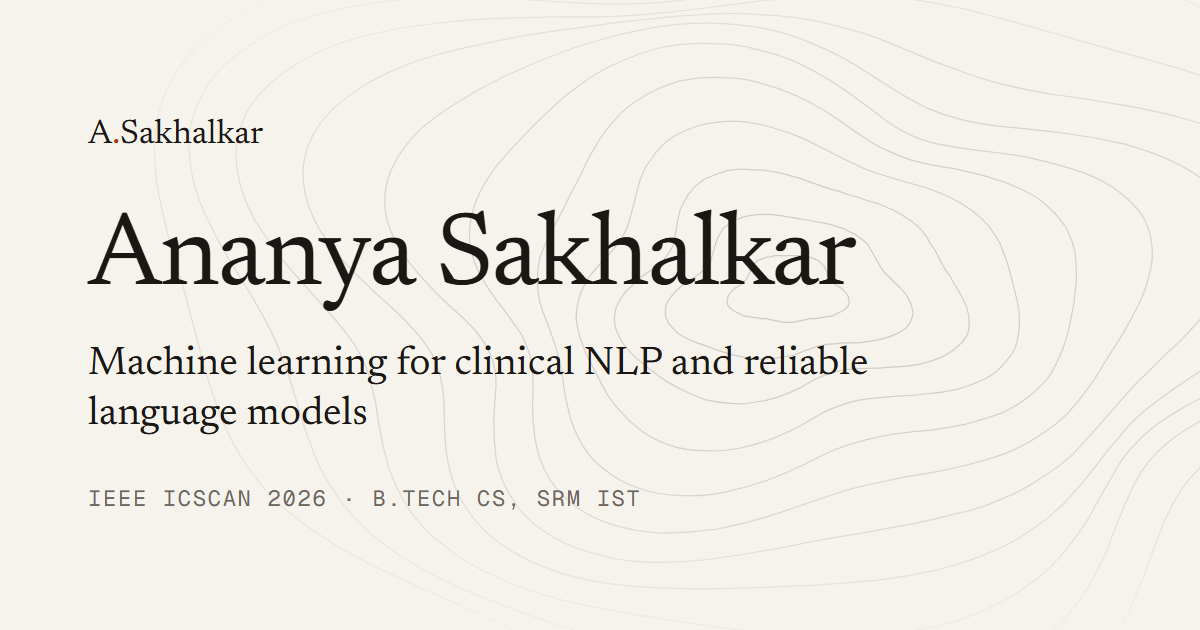
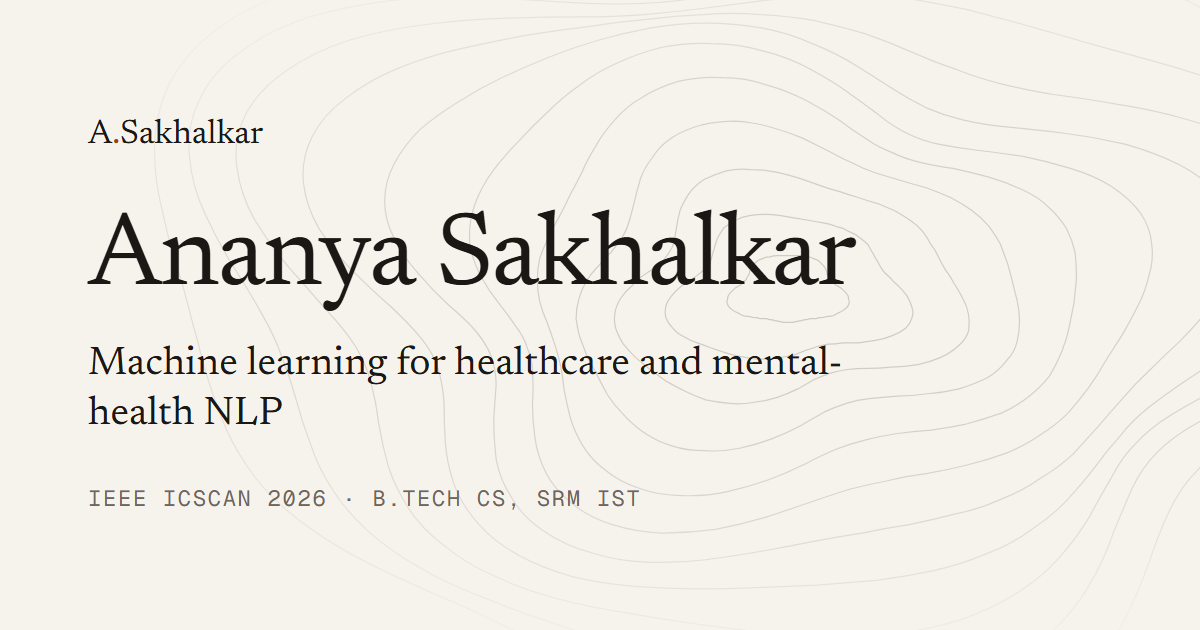
revamp: fact-audit fixes — no interest phrased as completed work
- Title, lede, OG text and card now describe completed work only
- 'no leakage' attached to the pair-aware split, as in the source
- Project tags read 'Related paper [n]'; citation [2] no longer repeats
  project metrics as if the paper reports them
- Validator fixes: shorter title, tel non-breaking spaces, aria-label use
- Print: breakpoints scoped to screen, tighter spacing

Changed region(s): [[0.37, 0.5429, 0.74, 0.6032], [0.0617, 0.6333, 0.3083, 0.6937]]

diff --git a/index.html b/index.html
@@ -7,7 +7,7 @@
 <meta name="referrer" content="strict-origin-when-cross-origin">
 <script>(function(){var d=document.documentElement;d.classList.add('js');try{var t=localStorage.getItem('theme');if(t==='light'||t==='dark')d.setAttribute('data-theme',t)}catch(e){}})();</script>
 
-<title>Ananya Sakhalkar — Machine learning for clinical NLP and reliable language models</title>
+<title>Ananya Sakhalkar — ML for healthcare and mental-health NLP</title>
 <meta name="description" content="Ananya Sakhalkar — ML researcher-engineer. IEEE ICSCAN 2026 author; LLM pharmacogenomic extraction, mental-health NLP, and production healthcare ML.">
 <meta name="author" content="Ananya Sakhalkar">
 <meta name="robots" content="index, follow">
@@ -20,10 +20,10 @@
 
 <meta property="og:type" content="profile">
 <meta property="og:title" content="Ananya Sakhalkar">
-<meta property="og:description" content="Machine learning for settings where errors are costly — clinical and mental-health NLP, reliable language models, and production healthcare ML.">
+<meta property="og:description" content="Machine learning where errors are costly: language models for biomedical text and mental-health support, and production healthcare ML.">
 <meta property="og:url" content="https://ananyasakhalkar.github.io/my-website/">
 <meta property="og:image" content="https://ananyasakhalkar.github.io/my-website/assets/img/og.png">
-<meta property="og:image:alt" content="Ananya Sakhalkar — machine learning for clinical NLP and reliable language models">
+<meta property="og:image:alt" content="Ananya Sakhalkar — machine learning for healthcare and mental-health NLP">
 <meta property="profile:first_name" content="Ananya">
 <meta property="profile:last_name" content="Sakhalkar">
 <meta name="twitter:card" content="summary_large_image">
@@ -44,7 +44,7 @@
       "url": "https://ananyasakhalkar.github.io/my-website/",
       "email": "mailto:sakhalkarananya@gmail.com",
       "alumniOf": { "@type": "CollegeOrUniversity", "name": "SRM IST" },
-      "knowsAbout": ["Clinical NLP", "Mental-health NLP", "Large language models", "Parameter-efficient fine-tuning", "Healthcare machine learning", "Remote sensing"],
+      "knowsAbout": ["Mental-health NLP", "Biomedical NLP", "Large language models", "Parameter-efficient fine-tuning", "Healthcare machine learning", "Remote sensing"],
       "sameAs": [
         "https://orcid.org/0009-0006-6371-5873",
         "https://github.com/ananyasakhalkar",
@@ -75,7 +75,7 @@
 <!-- ===== SECTION: Navigation ===== -->
 <header class="nav" id="nav">
   <div class="container nav__inner">
-    <a class="mark" href="#top" aria-label="Ananya Sakhalkar — back to top">A<span class="mark__dot">.</span>Sakhalkar</a>
+    <a class="mark" href="#top" aria-label="A.Sakhalkar — back to top">A<span class="mark__dot">.</span>Sakhalkar</a>
     <nav class="nav__nav" aria-label="Primary">
       <button class="nav__menu" type="button" aria-expanded="false" aria-controls="nav-links" hidden>Menu</button>
       <ul class="nav__links" id="nav-links">
@@ -106,8 +106,8 @@
     <div class="hero__main hero__seq">
       <p class="status"><span class="status__dot" aria-hidden="true"></span>Seeking MS / PhD positions · Summer 2027 intake</p>
       <h1 id="name">Ananya Sakhalkar</h1>
-      <p class="lede" data-voice>Machine learning for settings where errors are costly — clinical and mental-health NLP, reliable language models, and the production systems that carry them to real users.</p>
-      <p class="hero__para" data-voice>I studied Computer Science at SRM IST, Chennai (B.Tech, 2022 – 2026, CGPA&nbsp;8.94&nbsp;/&nbsp;10). My recent research fine-tunes language models to extract gene–drug associations from PharmGKB text, and to classify emotional state — including crisis risk — in mental-health messages. Before that, I built and shipped machine learning in production at a government healthcare platform, Jio Platforms and Reliance Industries.</p>
+      <p class="lede" data-voice>Machine learning where errors are costly — language models for biomedical text and mental-health support, and production ML on a live healthcare platform.</p>
+      <p class="hero__para" data-voice>I studied Computer Science at SRM IST, Chennai (B.Tech, 2022 – 2026, CGPA&nbsp;8.94&nbsp;/&nbsp;10). My recent research fine-tunes language models to extract gene–drug associations from PharmGKB text, and to classify emotional state — including crisis risk — in messages, for mental-health support. I have also built and shipped machine learning in production at a government healthcare platform, Jio Platforms and Reliance Industries.</p>
       <ul class="linkrow">
         <li><a href="resume.pdf" target="_blank" rel="noopener noreferrer"><svg viewBox="0 0 16 16" fill="none" stroke="currentColor" stroke-width="1.3" aria-hidden="true"><path d="M4 1.5h5.5L13 5v9.5H4z"/><path d="M9.5 1.5V5H13"/></svg>CV (PDF)</a></li>
         <li><a href="mailto:sakhalkarananya@gmail.com"><svg viewBox="0 0 16 16" fill="none" stroke="currentColor" stroke-width="1.3" aria-hidden="true"><rect x="1.5" y="3.5" width="13" height="9" rx="1"/><path d="m2 4 6 5 6-5"/></svg>Email</a></li>
@@ -151,7 +151,7 @@
   </div>
   <div class="prose">
     <p data-voice>Most of what I’ve built sits where machine learning meets decisions that matter: an inference service on a live government healthcare platform serving real patients, anomaly detection for a nationwide telecom network, and crop-health monitoring from Sentinel-2 satellite imagery.</p>
-    <p data-voice>Working on those systems made two questions feel central. Does a model still hold up on data it wasn’t tuned for — another site, another population, another way of writing? And can the people relying on it see why it decided what it did? My recent work tries to take both seriously: leakage-free, pair-aware and subject-level splits in the warfarin study, and interpretability to surface feature impact and build physician trust in production.</p>
+    <p data-voice>Working on those systems made two questions feel central. Does a model still hold up on data it wasn’t tuned for — another site, another population, another way of writing? And can the people relying on it see why it decided what it did? My recent work tries to evaluate honestly — a pair-aware split with no leakage and a subject-level split in the warfarin study — and in production I applied model interpretability to surface feature impact and build physician trust. How models hold up across sites and domains is what I’d like to study next.</p>
   </div>
   <div class="interests">
     <p data-voice>I’d like to pursue these questions in graduate research. My interests:</p>
@@ -161,7 +161,7 @@
   <div class="threads">
     <article class="card thread">
       <p class="label">A</p>
-      <h3>Language models for clinical and biomedical text</h3>
+      <h3>Language models for biomedical text</h3>
       <p>LoRA-fine-tuned Qwen2.5-3B-Instruct extracts gene–drug association status from PharmGKB text; extracted features are fused with genotype and clinical data for warfarin dose prediction.</p>
       <p class="evidence">Evidence → <a href="#pub-warfarin-llm">[2] preprint</a><a href="#project-warfarin">project</a></p>
     </article>
@@ -173,7 +173,7 @@
     </article>
     <article class="card thread">
       <p class="label">C</p>
-      <h3>Interpretable ML for clinical decisions</h3>
+      <h3>Interpretable ML in healthcare</h3>
       <p>Model interpretability and evaluation workflows for a production inference service on a government healthcare platform, and interpretability tooling for a gene–drug recommendation engine.</p>
       <p class="evidence">Evidence → <a href="#xp-apmsidc">APMSIDC</a><a href="#project-drug-rec">Drug Recommendation Engine</a></p>
     </article>
@@ -221,18 +221,18 @@
       <p class="cite__tags"><span class="tag">Preprint · Sole author</span></p>
       <p class="cite__meta">A. Sakhalkar. <em>arXiv preprint.</em></p>
       <!-- PENDING Q5: arXiv link or ID -->
-      <p class="cite__note">LoRA-fine-tuned Qwen2.5-3B-Instruct on a pair-aware split of 11,035 pairs (no leakage); features fused in XGBoost for warfarin dosing (subject-level split). 84.09% extraction accuracy · R² 0.70 · MAE 7.0 mg/wk. <a href="#project-warfarin">Project details</a></p>
+      <p class="cite__note">Related project: <a href="#project-warfarin">LLM Pharmacogenomic Extraction &amp; Warfarin Dosing</a></p>
     </li>
     <li class="cite" id="pub-emotion">
       <span class="cite__num">[3]</span>
       <p class="cite__title">Emotion Classification and Emotion-Conditioned Response Generation for Mental-Health Support</p>
       <p class="cite__tags"><span class="tag">Under review · Sole author</span></p>
       <p class="cite__meta">A. Sakhalkar. <em>Manuscript under review.</em></p>
-      <p class="cite__note">Methods: DistilBERT · LoRA-tuned Llama 3.1 8B Instruct. 93.4% accuracy (F1 92.4%). <a href="#project-emotion">Project details</a></p>
+      <p class="cite__note">Methods: DistilBERT · LoRA-tuned Llama 3.1 8B Instruct. Related project: <a href="#project-emotion">Emotion Classification &amp; Response Generation</a></p>
     </li>
     <li class="cite" id="pub-crop-extension">
       <span class="cite__num">[4]</span>
-      <p class="cite__title">Also under review: sole-authored extension of the ICSCAN 2026 crop-health detection work.</p>
+      <p class="cite__title cite__title--plain">Also under review: sole-authored extension of the ICSCAN 2026 crop-health detection work.</p>
       <p class="cite__tags"><span class="tag">Under review · Sole author</span></p>
       <p class="cite__meta"><em>Manuscript under review.</em></p>
     </li>
@@ -248,7 +248,7 @@
   <div class="projects">
 
     <article class="card project" id="project-warfarin">
-      <div class="project__top"><h3>LLM Pharmacogenomic Extraction &amp; Warfarin Dosing</h3><a class="tag" href="#pub-warfarin-llm">Preprint [2]</a></div>
+      <div class="project__top"><h3>LLM Pharmacogenomic Extraction &amp; Warfarin Dosing</h3><a class="tag" href="#pub-warfarin-llm">Related paper [2]</a></div>
       <p class="project__aim" data-voice>Turn free-text pharmacogenomic evidence into features a dosing model can use.</p>
       <details class="project__approach" open>
         <summary>Approach</summary>
@@ -259,7 +259,7 @@
         <p class="metric"><span class="metric__v">R² 0.70</span><span class="metric__c">dose prediction</span></p>
         <p class="metric"><span class="metric__v">7.0 mg/wk</span><span class="metric__c">MAE</span></p>
       </div>
-      <ul class="stack" aria-label="Stack"><li>Qwen2.5-3B</li><li>LoRA</li><li>XGBoost</li><li>PharmGKB</li><li>IWPC</li></ul>
+      <ul class="stack"><li>Qwen2.5-3B</li><li>LoRA</li><li>XGBoost</li><li>PharmGKB</li><li>IWPC</li></ul>
     </article>
 
     <article class="card project" id="project-emotion">
@@ -273,12 +273,12 @@
         <p class="metric"><span class="metric__v">93.4%</span><span class="metric__c">accuracy</span></p>
         <p class="metric"><span class="metric__v">92.4%</span><span class="metric__c">F1</span></p>
       </div>
-      <ul class="stack" aria-label="Stack"><li>DistilBERT</li><li>Llama 3.1 8B</li><li>PEFT/LoRA</li><li>Transformers</li></ul>
+      <ul class="stack"><li>DistilBERT</li><li>Llama 3.1 8B</li><li>PEFT/LoRA</li><li>Transformers</li></ul>
       <p class="note" data-voice>Research work; not a substitute for professional mental-health care.</p>
     </article>
 
     <article class="card project" id="project-digital-twin">
-      <div class="project__top"><h3>Farm Digital Twin</h3><a class="tag tag--pub" href="#pub-icscan-2026">Published [1]</a></div>
+      <div class="project__top"><h3>Farm Digital Twin</h3><a class="tag" href="#pub-icscan-2026">Related paper [1]</a></div>
       <p class="project__aim" data-voice>Model crop health over time from satellite signals, and let people plan around it.</p>
       <details class="project__approach" open>
         <summary>Approach</summary>
@@ -287,7 +287,7 @@
       <div class="metrics">
         <p class="metric"><span class="metric__v">~96%</span><span class="metric__c">crop-health classification accuracy</span></p>
       </div>
-      <ul class="stack" aria-label="Stack"><li>PyTorch</li><li>Time-Series ML</li><li>GEE</li><li>React</li></ul>
+      <ul class="stack"><li>PyTorch</li><li>Time-Series ML</li><li>GEE</li><li>React</li></ul>
     </article>
 
     <article class="card project" id="project-graphrag">
@@ -301,7 +301,7 @@
         <p class="metric"><span class="metric__v">61→82%</span><span class="metric__c">multi-hop QA accuracy</span></p>
         <p class="metric"><span class="metric__v">+21 pp</span><span class="metric__c">vs RAG</span></p>
       </div>
-      <ul class="stack" aria-label="Stack"><li>GraphRAG</li><li>Knowledge Graphs</li><li>Vector Retrieval</li></ul>
+      <ul class="stack"><li>GraphRAG</li><li>Knowledge Graphs</li><li>Vector Retrieval</li></ul>
       <!-- PENDING Q11: benchmark / dataset name -->
     </article>
 
@@ -519,7 +519,7 @@
     <li><a href="https://github.com/ananyasakhalkar"><span class="k label">GitHub</span><span class="v">ananyasakhalkar</span><span class="arrow" aria-hidden="true">↗</span></a></li>
     <li><a href="https://orcid.org/0009-0006-6371-5873"><span class="k label">ORCID</span><span class="v">0009-0006-6371-5873</span><span class="arrow" aria-hidden="true">↗</span></a></li>
     <li><a href="resume.pdf" target="_blank" rel="noopener noreferrer"><span class="k label">Résumé</span><span class="v">CV — PDF</span><span class="arrow" aria-hidden="true">↓</span></a></li>
-    <li><a href="tel:+917021803259"><span class="k label">Phone</span><span class="v">+91 70218 03259</span><span class="arrow" aria-hidden="true">→</span></a></li>
+    <li><a href="tel:+917021803259"><span class="k label">Phone</span><span class="v">+91&nbsp;70218&nbsp;03259</span><span class="arrow" aria-hidden="true">→</span></a></li>
   </ul>
 </section>
 

diff --git a/404.html b/404.html
@@ -20,7 +20,7 @@
 <!-- ===== SECTION: Navigation ===== -->
 <header class="nav" id="nav">
   <div class="container nav__inner">
-    <a class="mark" href="/my-website/" aria-label="Ananya Sakhalkar — home">A<span class="mark__dot">.</span>Sakhalkar</a>
+    <a class="mark" href="/my-website/" aria-label="A.Sakhalkar — home">A<span class="mark__dot">.</span>Sakhalkar</a>
     <nav class="nav__nav" aria-label="Primary">
       <button class="nav__menu" type="button" aria-expanded="false" aria-controls="nav-links" hidden>Menu</button>
       <ul class="nav__links" id="nav-links">

diff --git a/assets/css/site.css b/assets/css/site.css
@@ -473,6 +473,7 @@ h3 {
   line-height: 1.35;
   grid-column: 2;
 }
+.cite__title--plain { font-family: var(--sans); font-size: 1rem; color: var(--ink-2); }
 .cite__tags { grid-column: 3; grid-row: 1; display: flex; gap: var(--s2); flex-wrap: wrap; justify-content: flex-end; align-items: start; }
 .cite__meta { grid-column: 2 / span 2; color: var(--ink-2); font-size: .98rem; }
 .cite__meta em { font-style: italic; }
